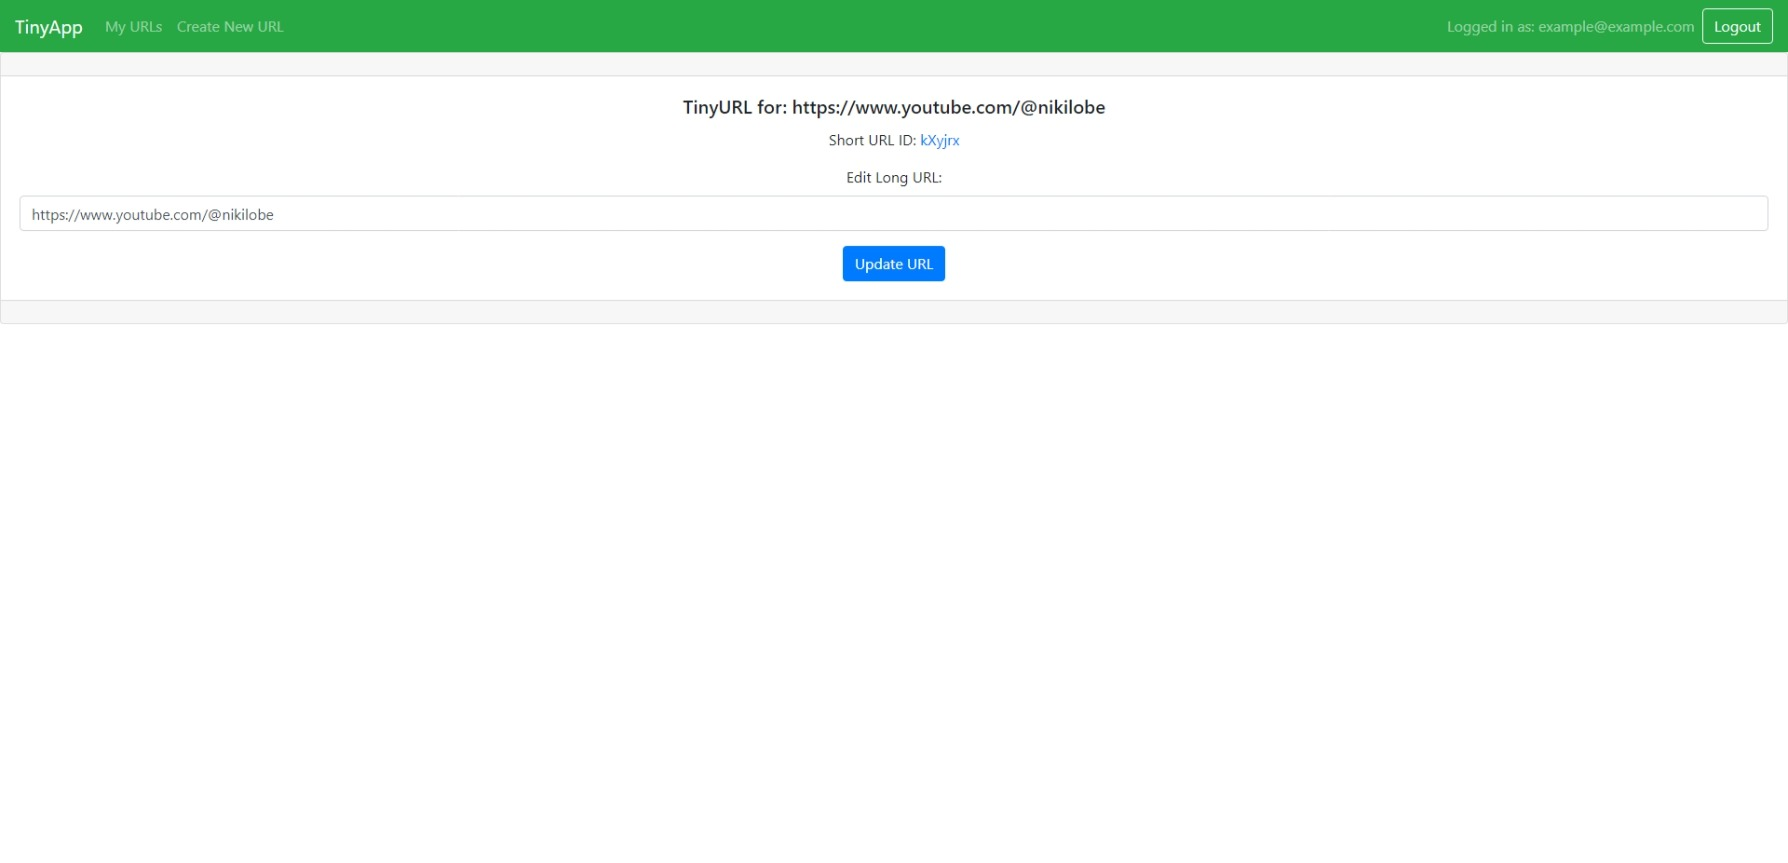
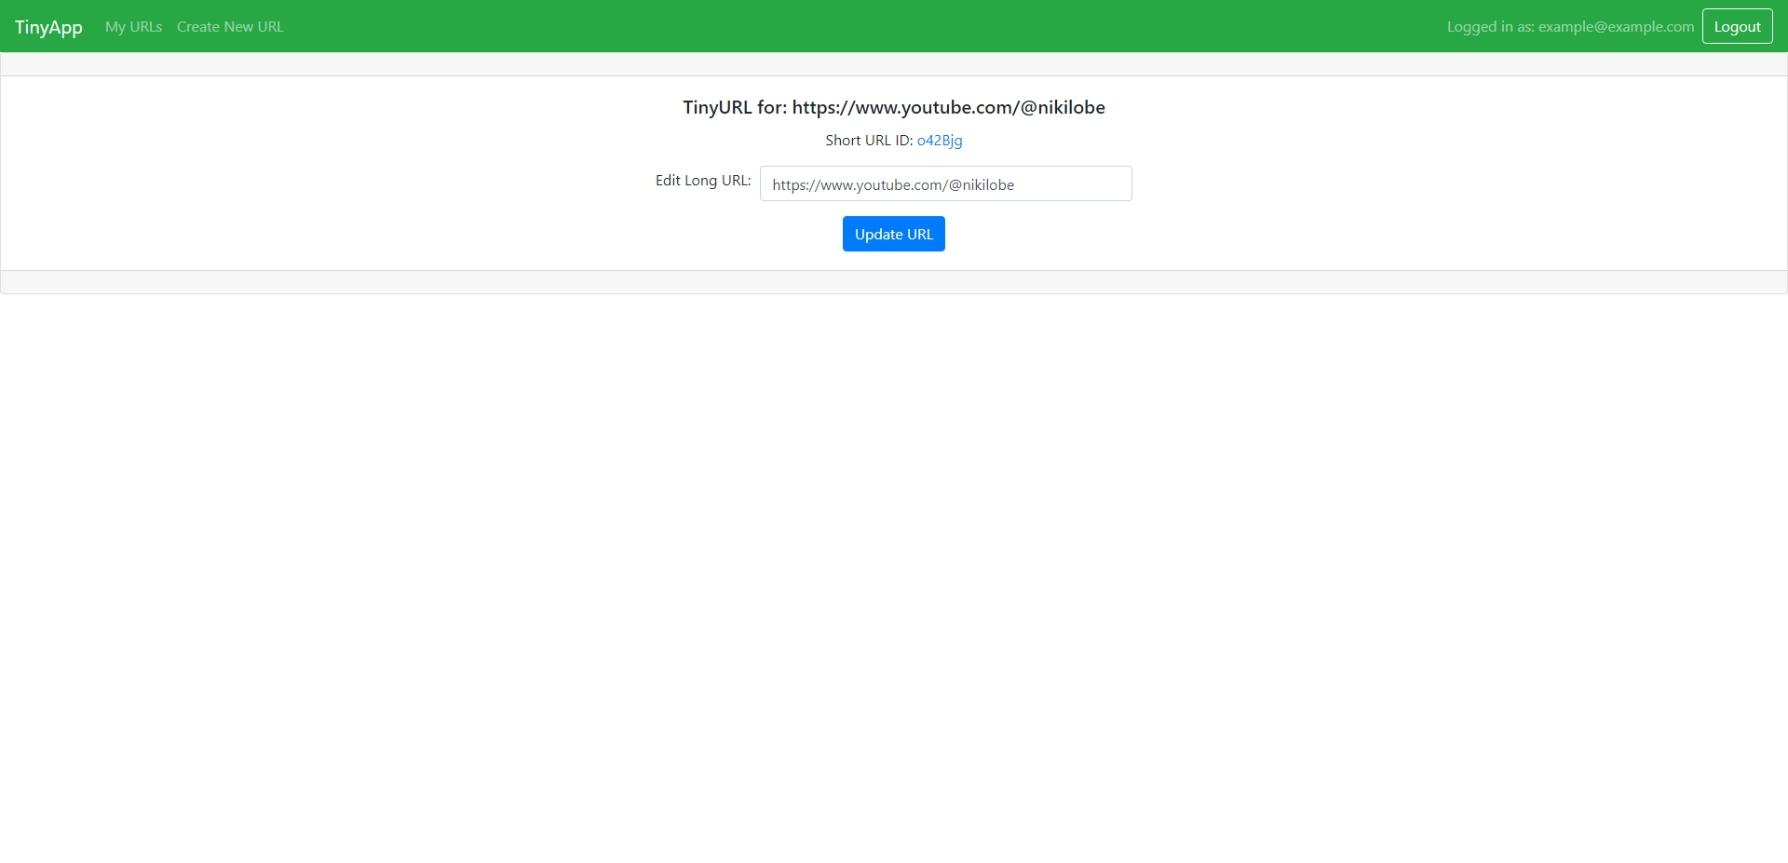
Update formatting for urls_show to center url edit form box and shorten it. Added updated photos

Changed region(s): [[0.4306, 0.1506, 0.5845, 0.3314], [0.0, 0.241, 0.1538, 0.2711], [0.3691, 0.1808, 0.3999, 0.2109]]

diff --git a/README.md b/README.md
@@ -25,6 +25,14 @@ TinyApp is a full stack web application that allows users to shorten long URLs (
 
 !["Screenshot of URLs page with user logged in"](https://github.com/SilentYell/tinyapp/blob/main/docs/url_edit_logged_in.jpeg?raw=true)
 
+*Tiny URL creation page where user is logged in*
+
+!["Screenshot of TinyURL creation page with user logged in"](/docs/TinyURLCreation_page.jpeg)
+
+*Long URL edit page where user is logged in*
+
+!["Screenshot of long URL edit page with user logged in"](/docs/url_edit_logged_in.jpeg)
+
 
 ## Dependencies
 
